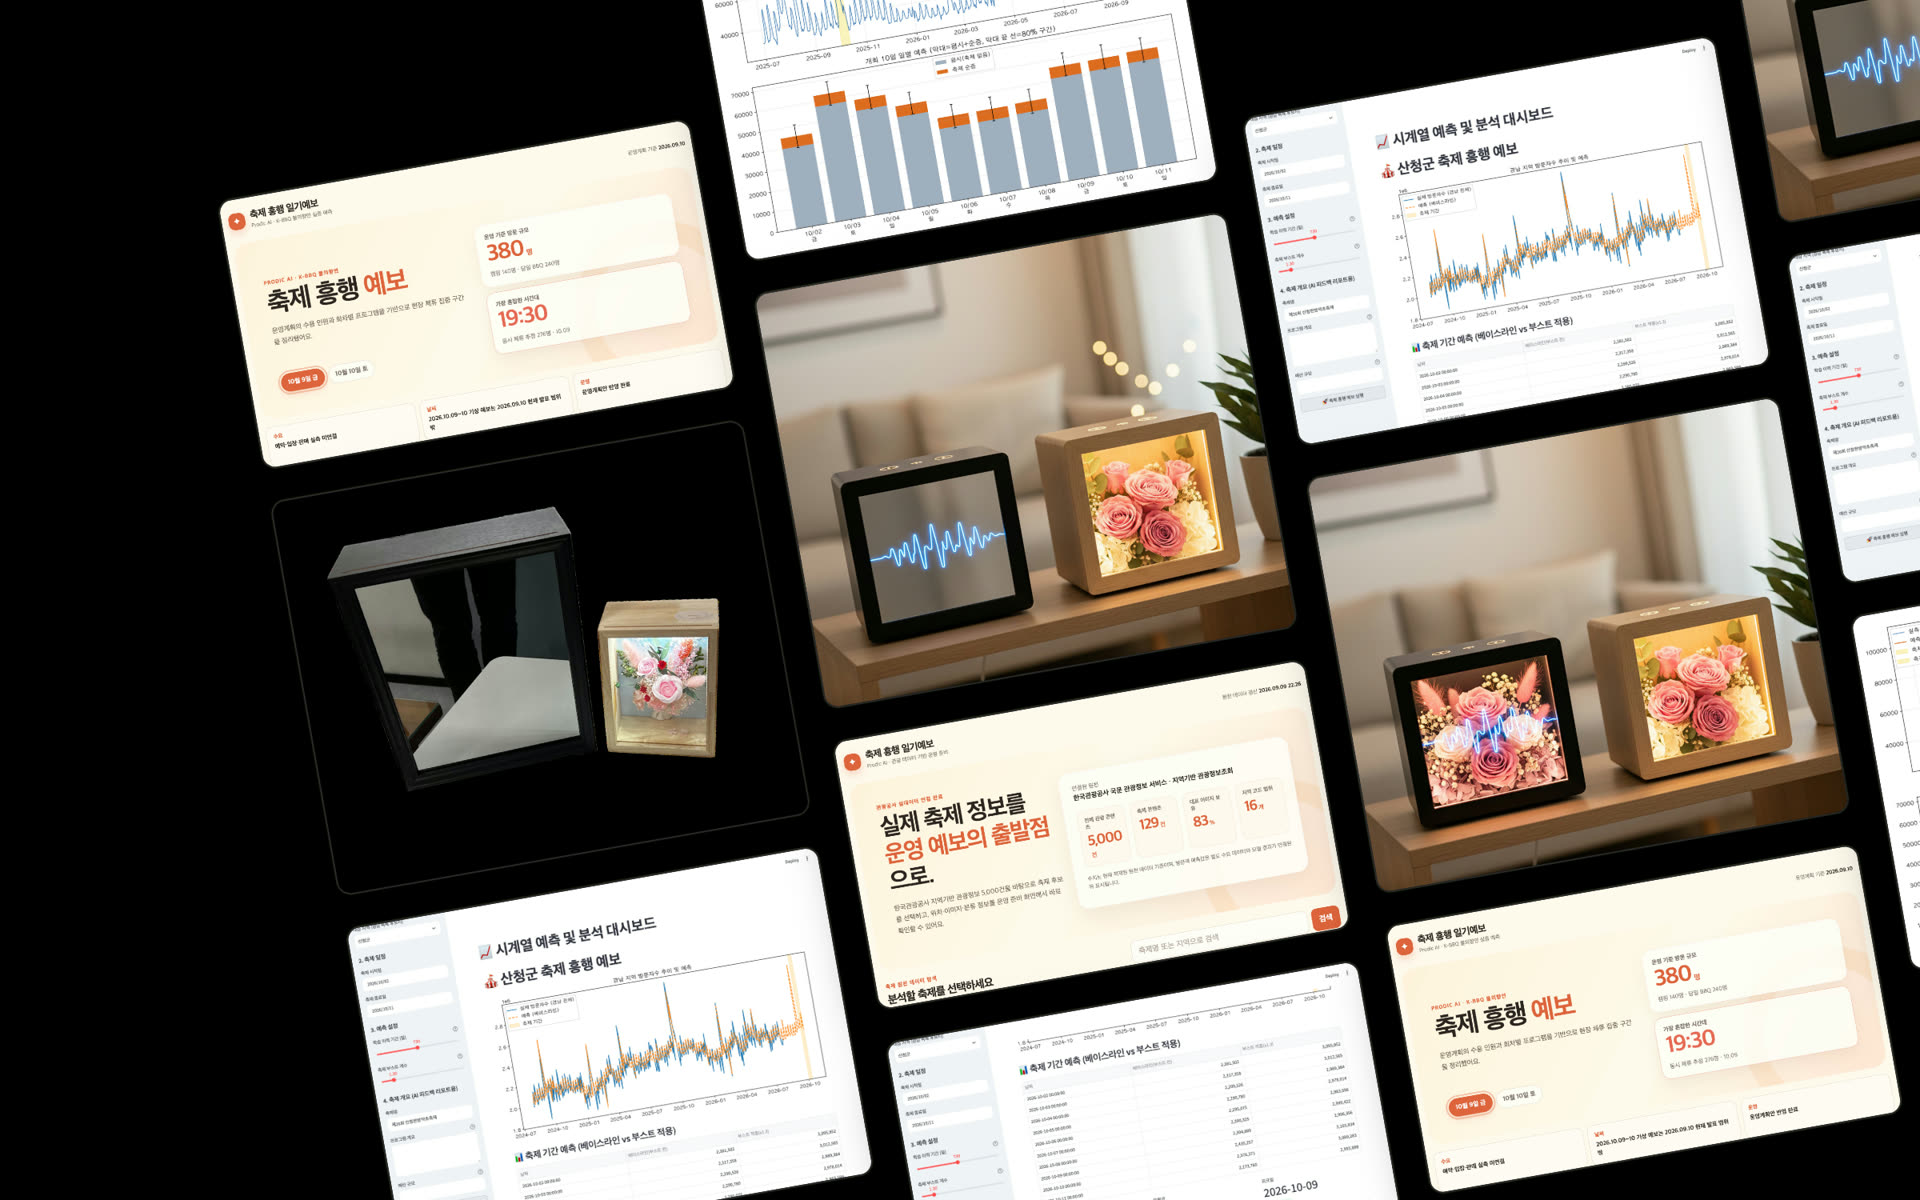
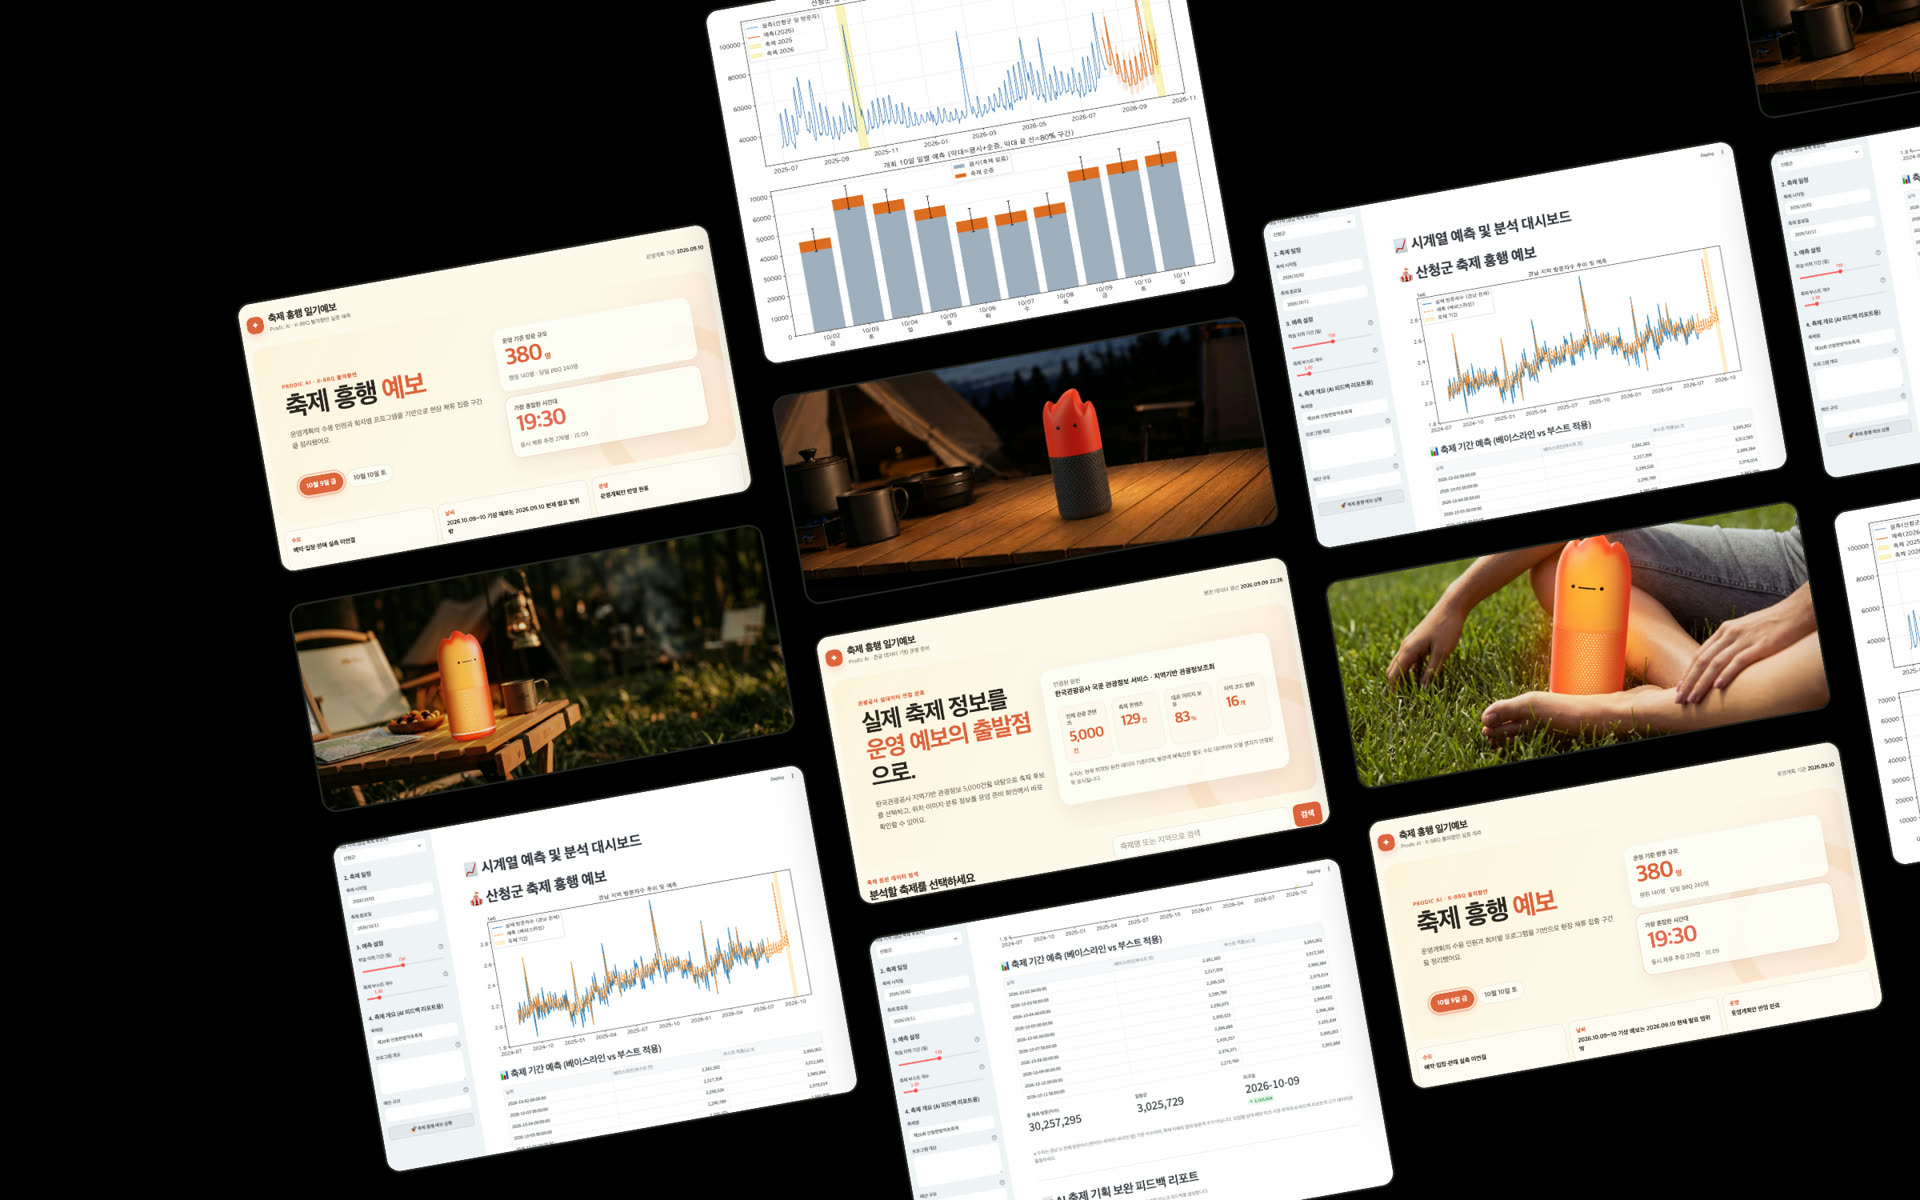
AI 스피커 제품명을 Cosher → 모닥이로 변경(설명도 호출어 대화형 스피커·무드등으로), 첫 화면 배경의 스피커 이미지를 모닥이 디자인 렌더링으로 교체

diff --git a/index.html b/index.html
@@ -122,7 +122,7 @@
     #hero .hero-bg {
       position: absolute; inset: 0;
       background: url('assets/hero-bg.jpg') right center / cover no-repeat;
-      filter: grayscale(0.35) brightness(0.55) contrast(1.05);
+      filter: grayscale(0.1) brightness(0.55) contrast(1.05);
     }
     #hero .hero-bg::after {
       content: ''; position: absolute; inset: 0;
@@ -929,14 +929,14 @@
       <div class="product-card reveal reveal-delay-3">
         <div class="product-card-top">
           <span class="product-badge">출시 완료</span>
-          <span class="product-type">IoT · 감성 AI</span>
+          <span class="product-type">IoT · 대화형 AI</span>
         </div>
-        <div class="product-name">Cosher</div>
-        <div class="product-name-sub">AI</div>
+        <div class="product-name">모닥이</div>
+        <div class="product-name-sub">AI 스피커</div>
         <p class="product-desc">
-          사용자의 기분과 환경을 인식하는 AI 조명 스피커.<br>
-          감성적 디자인과 인공지능을 결합해<br>
-          빛과 소리로 공간의 분위기를 조율합니다.
+          "모닥이"라고 부르면 대답하는 대화형 AI 스피커.<br>
+          쿡캠 불꽃 캐릭터를 닮은 무드등과 함께<br>
+          목소리로 묻고 답하며 캠핑의 밤을 채웁니다.
         </p>
         <div class="product-glyph">04</div>
       </div>
